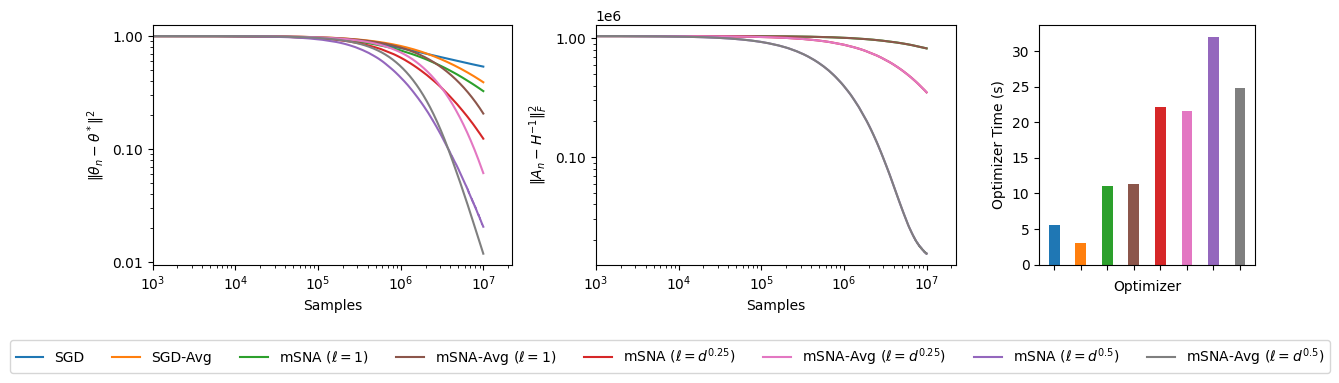
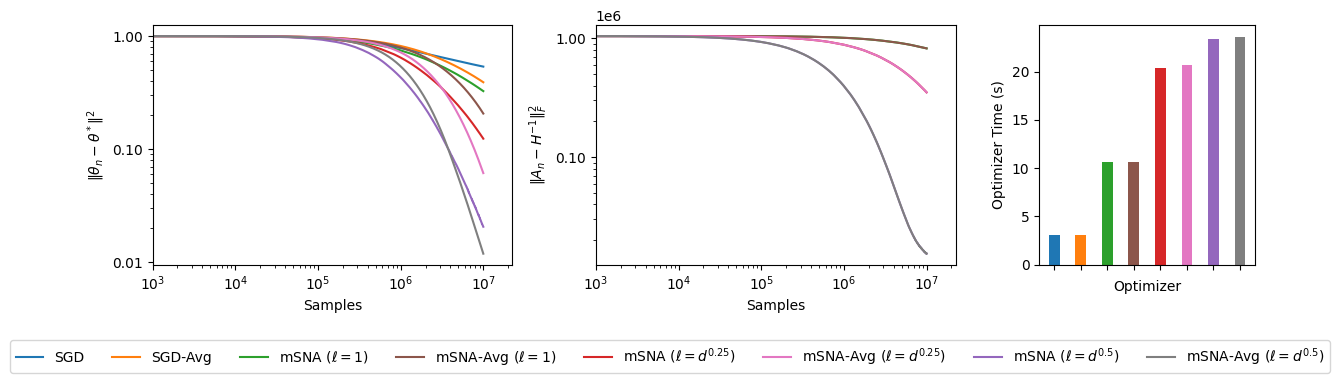
re-entering repo, commit modifs from before

diff --git a/utils.py b/utils.py
@@ -24,7 +24,7 @@ from datasets import load_dataset_from_source
 
 def expand_file_patterns(patterns: List[str]) -> List[str]:
     """
-    Expands a list of glob patterns into a list of unique, sorted file paths.
+    Expands a list of glob patterns into a list of unique file paths, preserving order.
     """
     files = []
     for pattern in patterns:
@@ -32,8 +32,8 @@ def expand_file_patterns(patterns: List[str]) -> List[str]:
         if not expanded_files:
             print(f"Warning: The pattern '{pattern}' did not match any files.")
         files.extend(expanded_files)
-    # Return a sorted list of unique file paths
-    return sorted(list(set(files)))
+    # Return a list of unique file paths in the order they were expanded
+    return list(dict.fromkeys(files))
 
 
 # ============================================================================ #

diff --git a/main.py b/main.py
@@ -112,7 +112,7 @@ def main():
 
         # 2. Determine context variables (d and n) based on dataset type.
         context: dict[str, Any]
-        if "synthetic" in p_name:
+        if "synthetic" in raw_p_config.get("dataset", ""):
             param_dim = dataset_params.get("param_dim")
             if param_dim is None:
                 if "true_theta" in dataset_params:

diff --git a/run.py b/run.py
@@ -4,6 +4,7 @@ import math
 from tqdm import tqdm
 from typing import Tuple
 
+
 import torch
 from torch.utils.data import DataLoader, IterableDataset
 
